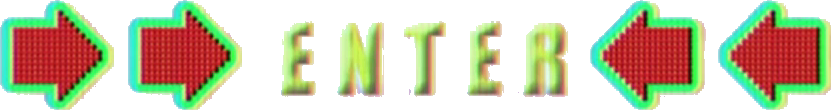
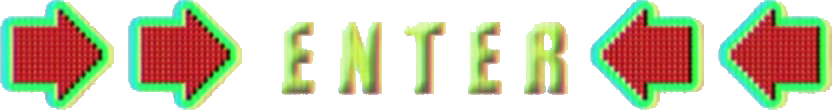
ok, pls

diff --git a/index.htm b/index.htm
@@ -9,6 +9,12 @@
         <meta property="og:image" content="static/icon.gif">
         <meta name="viewport" content="width=device-width, initial-scale=1">
         <style>
+@font-face {
+    font-family: "Digital Display";
+    src: url('static/digidis.ttf') format('truetype');
+    font-weight: normal;
+    font-style: normal;
+}
               .serif {
     display: block;
     font-family: "Playfair Display", Georgia, serif;
@@ -190,6 +196,7 @@
     }
     #tnthone{
         flex:0.4;
+        margin-top:auto;
     }
 
 }
@@ -208,6 +215,21 @@
         transform: rotateY(360deg);
         top: 100vw;
     }
+}
+.visitor-count {
+    margin:1vw;
+    margin-top:0px;
+    color:rgb(107, 172, 10);
+    background-color: black;
+    padding: 7px 7px;
+    border-radius: 1px;
+    height: fit-content;
+    font-family: "Digital Display";
+    font-size: clamp(50px, 5vw, 120px);
+    border-top: 2px solid #555;
+    border-right: 2px solid #555;
+    box-shadow: 3px -3px 0 #777;
+
 }
         </style>
     </head>
@@ -423,8 +445,18 @@ $(document).mouseenter(function(){
 fetch("https://dark-river-c006visitorcounter.iceletgautam.workers.dev/")
     .then(response => response.text())
     .then(count => {
-        console.log("Visitors:", count);
+        document.getElementById("tnthone").innerHTML="<span style='text-align:right;color: #B09FB5;text-shadow:1px 1px 0 #6f6473,-1px -1px 0 #d0c2d3;'>Your' (Ur) the<br>あなたは人目</span> <ice class='visitor-count'>"+count+"</ice><span style='color: #B09FB5;text-shadow:1px 1px 0 #6f6473,-1px -1px 0 #d0c2d3;'> visitor here!<br>の訪問者です</span>";
+
     });
+
+document.getElementById("body").addEventListener("contextmenu", function(e){
+    e.preventDefault();
+});
+document.getElementById("body").addEventListener("keydown", function(e){
+    if(e.key=="F12" || (e.ctrlKey && e.shiftKey && e.key=="I") || (e.ctrlKey && e.shiftKey && e.key=="J") || (e.ctrlKey && e.key=="U")){
+        e.preventDefault();
+    }
+});
 </script>
 </div>
 <div id="animcont"></div>
